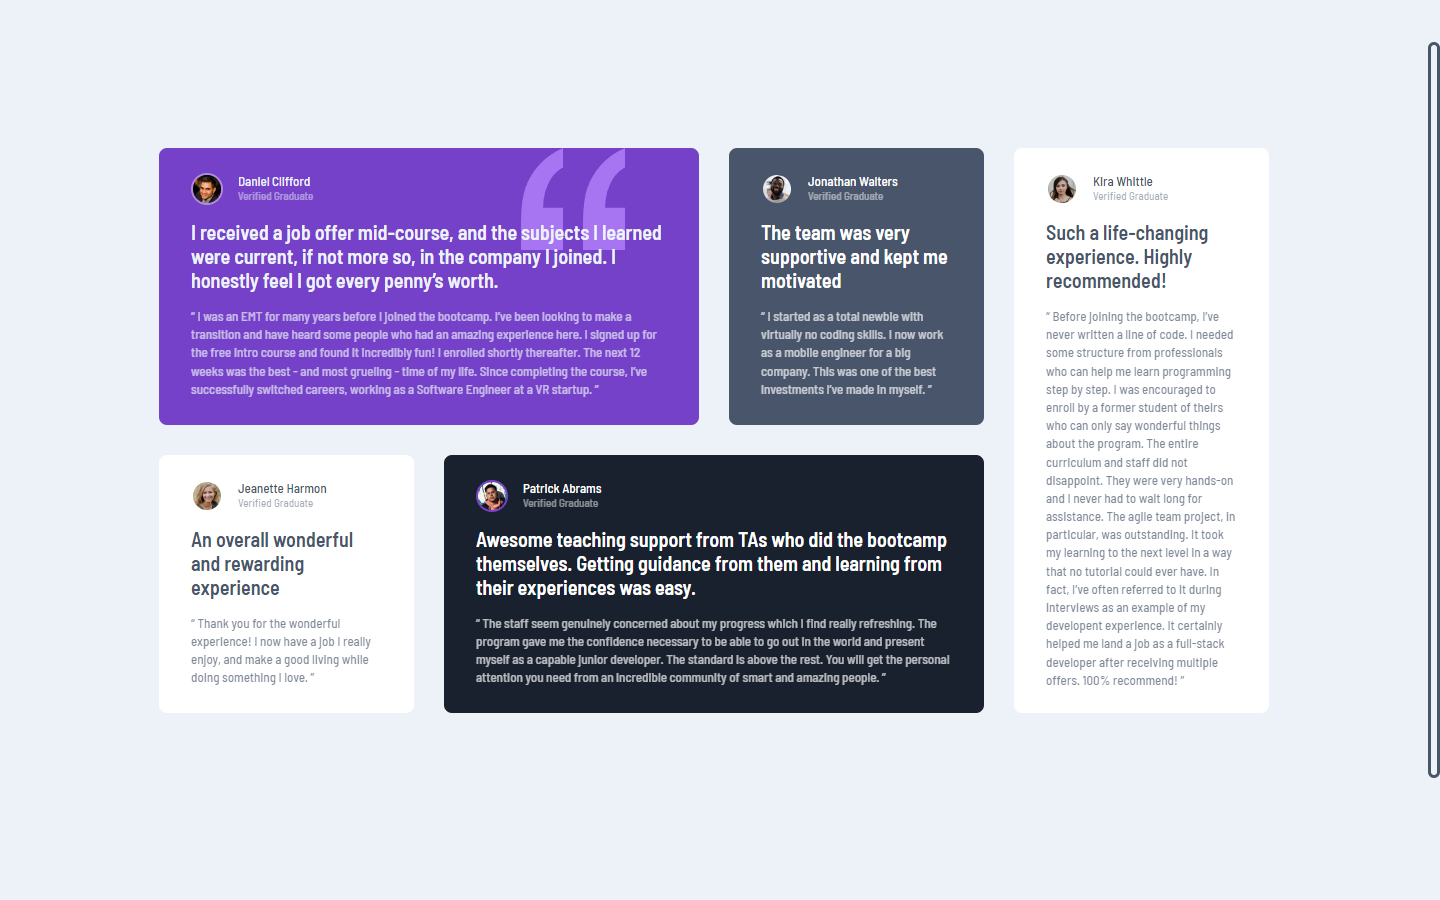
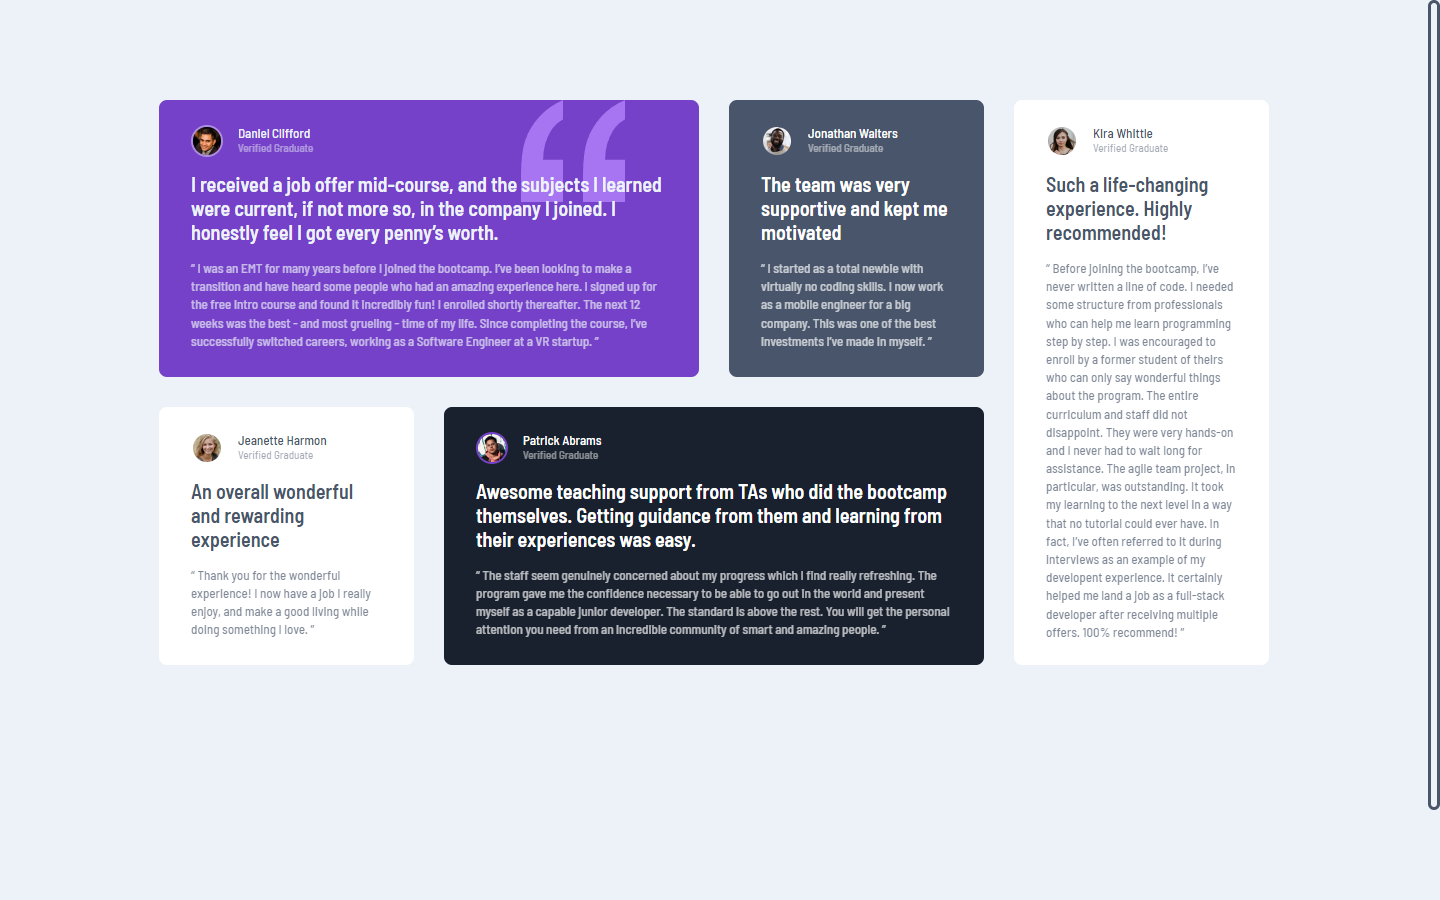
updated style.css

diff --git a/assets/css/style.css b/assets/css/style.css
@@ -34,7 +34,6 @@ Note for text colors:
 body {
     min-height: 100vh;
     background-color: var(--lightGrayishBlue);
-    padding-bottom: 100px;
 }
 
 body::-webkit-scrollbar {
@@ -57,7 +56,7 @@ main {
     padding-right: 10px;
     width: 100%;
     margin: auto;
-    margin-top: 200px;
+    margin-top: 100px;
     display: flex;
     justify-content: center;
     align-items: center;
@@ -72,6 +71,7 @@ main {
 .grid1, .grid2, .grid3, .grid4, .grid5 {
     padding: 25px 32px 24px;
     border-radius: 8px;
+    box-shadow: 8px 12px 15px rgba(0, 0, 0, 0.3);
 }
 
 .grid1 {
@@ -153,6 +153,7 @@ main {
 @media(max-width:1100px) {
     main {
         margin-top: 100px;
+        margin-bottom: 100px;
     }
 
     .container {
